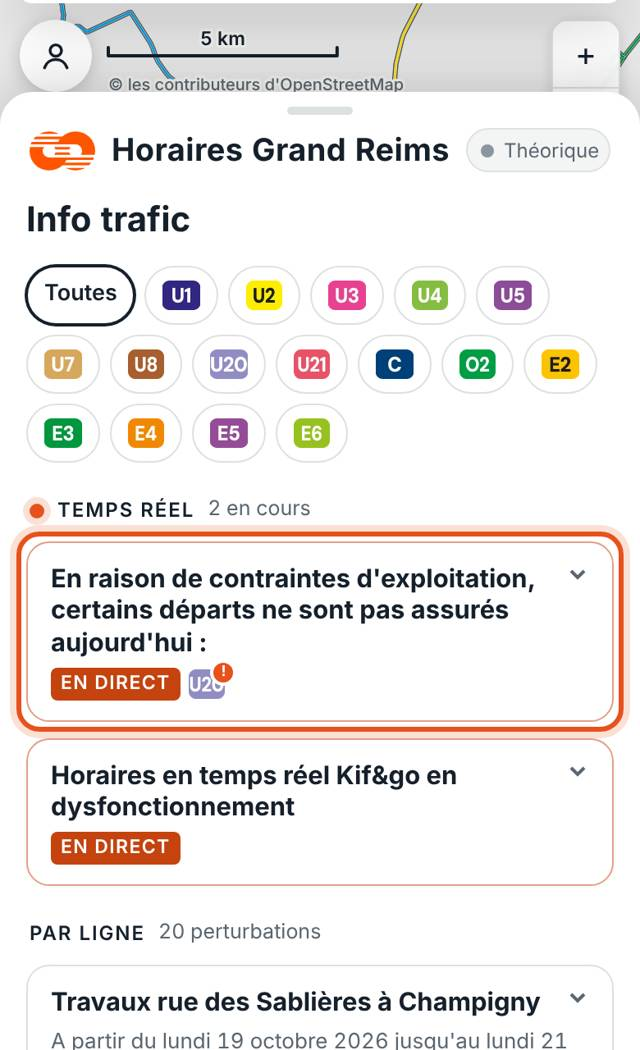
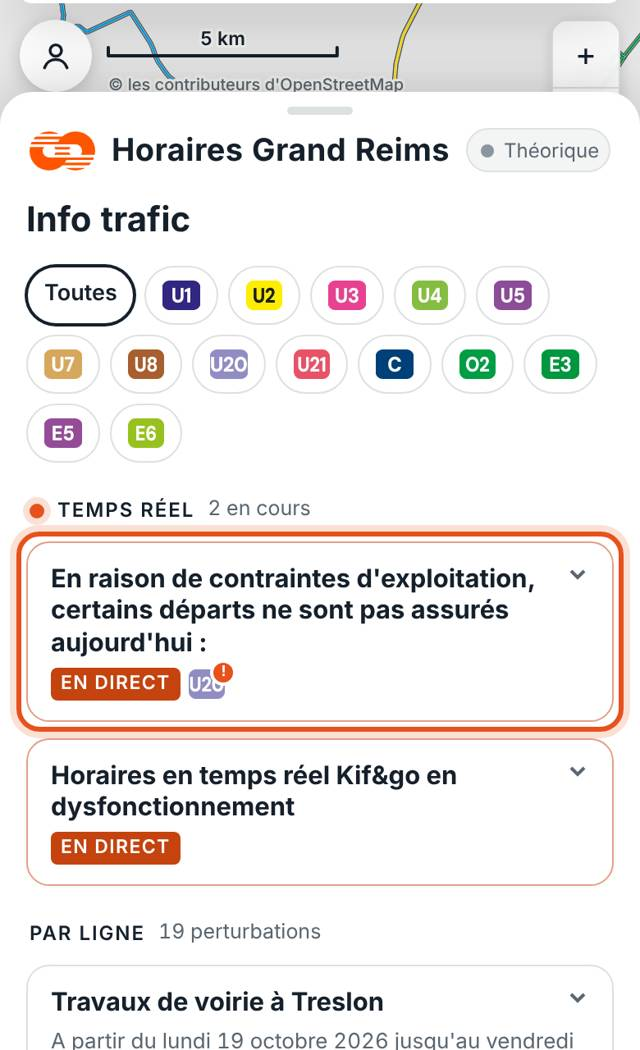
#26 barre d'état de l'iPhone (le plan commence dessous) et #27 « Je suis à bord »
Claude-Session: https://claude.ai/code/session_01CUDWTWNFLAxTati7rgsmG4

diff --git a/test/index.html b/test/index.html
@@ -100,6 +100,11 @@ h1, h2, h3 { font-family: var(--font-display); text-wrap: balance; margin: 0; }
   header.top { padding-top: 0 !important; touch-action: none; }
   .maplegend { display: none !important; }
   .mapctl, .profbtn { top: calc(var(--sat) + 12px) !important; }
+  /* #26 : appli lancée depuis l'écran d'accueil de l'iPhone : depuis iOS 26.1, la barre d'état (heure, batterie) a un fond
+     opaque qui recouvrait le haut du plan. Le plan commence donc sous elle, et ce fond prend la couleur des panneaux. */
+  html.standalone, html.standalone body { background: var(--surface); }
+  html.standalone .mapwrap { top: var(--sat); }
+  html.standalone .mapctl, html.standalone .profbtn { top: 12px !important; }
   input, select { font-size: 16px !important; } /* évite le zoom automatique d'iOS */
 }
 
@@ -1381,7 +1386,7 @@ const saveFav = () => { store.set("favStops", fav.stops); store.set("favTrips", 
 const FEATS = [
   ["Pendant le trajet", [
     ["gps", "Bus suivi en direct", "Quand vous êtes à bord, le bus avance sur l'écran avec vous, grâce au GPS de votre téléphone. Les heures d'arrivée sont plus précises."],
-    ["dedans", "Bouton « Je suis dedans »", "Un bouton pour dire à l'appli que vous êtes monté : le bus se cale sur vous en quelques secondes."],
+    ["dedans", "Bouton « Je suis à bord »", "Un bouton pour dire à l'appli que vous êtes monté : le bus se cale sur vous en quelques secondes."],
     ["retour", "Reprise instantanée", "Si vous quittez l'appli pendant le trajet, le bus se recale tout de suite sur vous à votre retour, même arrêté à un feu rouge."],
     ["plein", "Mode plein écran", "Tirez le panneau vers le haut : votre trajet occupe tout l'écran. Touchez la croix pour revenir."],
     ["centre", "Toujours centré sur le bus", "La liste des arrêts suit le bus. Si vous la faites défiler, elle revient sur lui au bout de 4 secondes."],
@@ -1898,7 +1903,7 @@ function userOnPat(pi, s) {
 function boardAdjust(st, pi, k, dk) {
   const key = [pi, k, dk].join(":");
   if (BOARD.key !== key) Object.assign(BOARD, { key, on: false, since: 0, offAt: 0, claim: BOARD.key ? 0 : BOARD.claim });
-  // « Je suis dedans » : le calage attend que le bus roule ; au-delà de 3 min de roulage sans calage, retour en silence
+  // « Je suis à bord » : le calage attend que le bus roule ; au-delà de 3 min de roulage sans calage, retour en silence
   if (BOARD.claim) {
     if (st.state === "before") BOARD.claim = Date.now();          // au terminus : on attend le départ
     else if (st.state !== "running" || Date.now() - BOARD.claim > 180000) BOARD.claim = 0;
@@ -1924,7 +1929,7 @@ function boardAdjust(st, pi, k, dk) {
     const nearWide = Math.abs(last.d - posToD(st.pos)) < Math.max(600, 2 * gap);
     // #09 : à bord il y a moins de 10 min (appli quittée puis reprise, feu rouge…) : recalage dès le premier point sur le tracé
     const recent = BOARD_LAST.key === key && (feat("retour") || (BOARD_LAST.ib && now - BOARD_LAST.at < 120000)) && now - BOARD_LAST.at < 600000 && onRoute(last) && nearWide;
-    // #09 : « Je suis dedans » touché : calage dès que j'avance avec le bus (≥ 15 m sur le tracé, dans le bon sens)
+    // #09 : « Je suis à bord » touché : calage dès que j'avance avec le bus (≥ 15 m sur le tracé, dans le bon sens)
     if (BOARD.claim && now - BOARD.claim > 180000) BOARD.claim = 0;
     const w2 = BOARD.claim ? pts.filter((h) => h.t >= BOARD.claim - 3000 && now - h.t < 30000 && onRoute(h)) : [];
     const claimed = w2.length >= 2 && w2[w2.length - 1] === last && w2[w2.length - 1].d - w2[0].d >= 15 && nearWide;
@@ -2132,7 +2137,7 @@ function renderFollow() {
   const near = st.state === "running" && !st.atStop && st.at(next) - t <= 1.1;
   const delay = Math.round(st.at(Math.min(nS - 1, next)) - st.sched(Math.min(nS - 1, next)));
   // pas de bouton quand le départ du terminus est encore loin (plus de 10 min)
-  const b9 = st.gps || st.state === "done" || (st.state === "before" && st.dp(0) - st.t > 10) || !feat("gps") || !feat("dedans") ? "" : BOARD.claim ? `<span class="b9 wait"><i class="b9spin"></i>Calage…</span>` : `<button type="button" class="b9" data-board>Je suis dedans</button>`;
+  const b9 = st.gps || st.state === "done" || (st.state === "before" && st.dp(0) - st.t > 10) || !feat("gps") || !feat("dedans") ? "" : BOARD.claim ? `<span class="b9 wait"><i class="b9spin"></i>Calage…</span>` : `<button type="button" class="b9" data-board>Je suis à bord</button>`;
   $("#mb-status").innerHTML = (st.gps ? `<i class="gpsdot"></i>À bord · position GPS${delay >= 1 ? " · retard " + delay + " min" : ""}` : `${dot(st.live)}${st.live ? `Temps réel · ${delay >= 1 ? "retard " + delay + " min" : delay <= -1 ? "avance " + -delay + " min" : "à l'heure"}` : "Horaire théorique (position estimée)"}`);
   { const h9 = b9; const e9 = $("#mb-b9"); if (e9 && e9.dataset.html !== h9) { e9.innerHTML = h9; e9.dataset.html = h9; } };
   // ligne : arrêts passés, arrêt suivant, bus
@@ -2710,7 +2715,7 @@ function installPop(os) {
 const GUIDE = [
   ["passages", "Trouver un horaire", "passages.jpg", "<p>Dans <b>Passages</b>, choisissez un arrêt : les prochains départs de chaque ligne s'affichent, rangés par transport (tram, BHNS, bus, express). Touchez un titre pour replier un transport.</p><p>Un <b>point vert</b> veut dire temps réel, un <b>point gris</b> horaire prévu. Touchez un horaire pour suivre ce bus. L'étoile ajoute l'arrêt à votre accueil.</p>"],
   ["itineraire", "Faire un itinéraire", "itineraire.jpg", "<p>Dans <b>Itinéraire</b>, indiquez d'où vous partez et où vous allez, puis « Partir à » ou « Arriver avant ». 6 trajets s'affichent ; « Plus tôt » et « Départs suivants » en ajoutent.</p><p>Ouvrez un trajet pour voir les étapes, puis « Me guider » : l'appli vous accompagne jusqu'à l'arrivée, correspondances comprises.</p>"],
-  ["monbus", "Suivre son bus", "monbus.jpg", "<p>Touchez un horaire ou un bus sur le plan : <b>Mon bus</b> montre où il est et à quelle heure il passera à chaque arrêt. Tirez le panneau vers le haut pour le plein écran.</p><p>Une fois monté, touchez <b>Je suis dedans</b> : le bus se cale sur votre position. Touchez votre arrêt de descente pour être prévenu juste avant. Si vous montez sans rien faire, l'appli vous propose elle-même de suivre votre bus.</p>"],
+  ["monbus", "Suivre son bus", "monbus.jpg", "<p>Touchez un horaire ou un bus sur le plan : <b>Mon bus</b> montre où il est et à quelle heure il passera à chaque arrêt. Tirez le panneau vers le haut pour le plein écran.</p><p>Une fois monté, touchez <b>Je suis à bord</b> : le bus se cale sur votre position. Touchez votre arrêt de descente pour être prévenu juste avant. Si vous montez sans rien faire, l'appli vous propose elle-même de suivre votre bus.</p>"],
   ["trafic", "L'info trafic", "trafic.jpg", "<p>L'onglet <b>Info trafic</b> montre d'abord ce qui se passe en ce moment, puis les travaux et arrêts déplacés, ligne par ligne. Un « ! » s'allume sur l'onglet quand une nouvelle info tombe.</p><p>Touchez une info : le plan montre les arrêts concernés et ceux de remplacement.</p>"],
   ["profil", "Votre profil", "profil.jpg", "<p>Le rond en haut à gauche du plan ouvre <b>Mon profil</b> : rangez, renommez ou supprimez vos arrêts et trajets, choisissez vos lignes (elles passent en premier) et vos alertes.</p><p>En bas, chaque fonctionnalité peut être coupée si vous préférez un affichage plus simple.</p>"],
 ];
@@ -2874,7 +2879,7 @@ const toS = (x, y) => [(x - view.cx) * view.s + W / 2, H / 2 - (y - view.cy) * v
 const fromS = (sx, sy) => [(sx - W / 2) / view.s + view.cx, view.cy - (sy - H / 2) / view.s];
 const geoS = (lon, lat) => toS(PX(lon), PY(lat));
 const reduceMotion = matchMedia("(prefers-reduced-motion: reduce)").matches;
-const topInset = () => isMobile() ? (parseFloat(css("--sat")) || 0) + 8 : 0;
+const topInset = () => isMobile() ? (document.documentElement.classList.contains("standalone") ? 0 : (parseFloat(css("--sat")) || 0)) + 8 : 0; // #26 : appli iPhone, le plan commence déjà sous la barre d'état
 
 // tracés : un par motif distinct
 const shapeOfPat = net.pats.map((p) => p.sh >= 0 ? net.shapes[p.sh] : p.stops.map((q) => [net.Q[q][2], net.Q[q][1]]));
@@ -3747,11 +3752,11 @@ const UPD_LOG = [
     { ico: personSvg(34), t: "Votre profil",
       b: "<p>Touchez le rond en haut à gauche du plan. Rangez et renommez vos arrêts et trajets (« Maison », « Boulot »), choisissez vos lignes et vos alertes.</p><p>Chaque fonctionnalité peut aussi être coupée, et le mode d'emploi est là.</p>" },
     { ico: icoSvg('<rect x="6" y="3.5" width="12" height="15" rx="2.5"/><path d="M6 12h12M8.5 21l1-2.5M15.5 21l-1-2.5"/><circle cx="9" cy="15.3" r=".6" fill="currentColor"/><circle cx="15" cy="15.3" r=".6" fill="currentColor"/>'), t: "L'appli reconnaît votre bus",
-      b: "<p>Vous montez sans rien faire ? L'appli vous propose de suivre le bus ou le tram dans lequel vous êtes.</p><p>Dans Mon bus, « Je suis dedans » cale le bus sur vous en quelques secondes, et il se recale tout seul si vous quittez l'appli.</p>" },
+      b: "<p>Vous montez sans rien faire ? L'appli vous propose de suivre le bus ou le tram dans lequel vous êtes.</p><p>Dans Mon bus, « Je suis à bord » cale le bus sur vous en quelques secondes, et il se recale tout seul si vous quittez l'appli.</p>" },
     { ico: icoSvg('<path d="M4 6h16M4 12h10M4 18h13"/><circle cx="19" cy="12" r="1.6"/>'), t: "Des arrêts et des trajets plus clairs",
       b: "<p>À chaque arrêt, les lignes sont rangées par transport : tram, BHNS, bus, express. Les correspondances indiquent leur direction.</p><p>Itinéraire : 6 trajets d'emblée, avec « Plus tôt » et « Départs suivants ».</p>" },
     { ico: icoSvg('<path d="M20 6 9 17l-5-5"/>'), t: "Et quelques corrections",
-      b: "<ul><li>Mon bus montre l'icône du tram, du BHNS ou du bus, et toute la course depuis le départ.</li><li>Les flèches de Mon bus s'arrêtent à l'arrêt suivant.</li><li>Les marchés du dimanche et les nouveaux arrêts passent dans « Infos », sans « ! ».</li><li>Sur le plan, les lignes d'une même rue restent côte à côte sans se croiser.</li></ul>" }] },
+      b: "<ul><li>Mon bus montre l'icône du tram, du BHNS ou du bus, et toute la course depuis le départ.</li><li>Les flèches de Mon bus s'arrêtent à l'arrêt suivant.</li><li>Les marchés du dimanche et les nouveaux arrêts passent dans « Infos », sans « ! ».</li><li>Sur le plan, les lignes d'une même rue restent côte à côte sans se croiser.</li><li>Sur iPhone, le haut de l'écran est mieux calé sous l'heure et la batterie.</li></ul>" }] },
   { v: "2026-11-06", t: "Info trafic, fin de service et nouveau plan", slides: UPD_0611 },
 ];
 const UPD = UPD_LOG[0].v;

diff --git a/build/template.html b/build/template.html
@@ -93,6 +93,11 @@ h1, h2, h3 { font-family: var(--font-display); text-wrap: balance; margin: 0; }
   header.top { padding-top: 0 !important; touch-action: none; }
   .maplegend { display: none !important; }
   .mapctl, .profbtn { top: calc(var(--sat) + 12px) !important; }
+  /* #26 : appli lancée depuis l'écran d'accueil de l'iPhone : depuis iOS 26.1, la barre d'état (heure, batterie) a un fond
+     opaque qui recouvrait le haut du plan. Le plan commence donc sous elle, et ce fond prend la couleur des panneaux. */
+  html.standalone, html.standalone body { background: var(--surface); }
+  html.standalone .mapwrap { top: var(--sat); }
+  html.standalone .mapctl, html.standalone .profbtn { top: 12px !important; }
   input, select { font-size: 16px !important; } /* évite le zoom automatique d'iOS */
 }
 
@@ -968,7 +973,7 @@ const saveFav = () => { store.set("favStops", fav.stops); store.set("favTrips", 
 const FEATS = [
   ["Pendant le trajet", [
     ["gps", "Bus suivi en direct", "Quand vous êtes à bord, le bus avance sur l'écran avec vous, grâce au GPS de votre téléphone. Les heures d'arrivée sont plus précises."],
-    ["dedans", "Bouton « Je suis dedans »", "Un bouton pour dire à l'appli que vous êtes monté : le bus se cale sur vous en quelques secondes."],
+    ["dedans", "Bouton « Je suis à bord »", "Un bouton pour dire à l'appli que vous êtes monté : le bus se cale sur vous en quelques secondes."],
     ["retour", "Reprise instantanée", "Si vous quittez l'appli pendant le trajet, le bus se recale tout de suite sur vous à votre retour, même arrêté à un feu rouge."],
     ["plein", "Mode plein écran", "Tirez le panneau vers le haut : votre trajet occupe tout l'écran. Touchez la croix pour revenir."],
     ["centre", "Toujours centré sur le bus", "La liste des arrêts suit le bus. Si vous la faites défiler, elle revient sur lui au bout de 4 secondes."],
@@ -1485,7 +1490,7 @@ function userOnPat(pi, s) {
 function boardAdjust(st, pi, k, dk) {
   const key = [pi, k, dk].join(":");
   if (BOARD.key !== key) Object.assign(BOARD, { key, on: false, since: 0, offAt: 0, claim: BOARD.key ? 0 : BOARD.claim });
-  // « Je suis dedans » : le calage attend que le bus roule ; au-delà de 3 min de roulage sans calage, retour en silence
+  // « Je suis à bord » : le calage attend que le bus roule ; au-delà de 3 min de roulage sans calage, retour en silence
   if (BOARD.claim) {
     if (st.state === "before") BOARD.claim = Date.now();          // au terminus : on attend le départ
     else if (st.state !== "running" || Date.now() - BOARD.claim > 180000) BOARD.claim = 0;
@@ -1511,7 +1516,7 @@ function boardAdjust(st, pi, k, dk) {
     const nearWide = Math.abs(last.d - posToD(st.pos)) < Math.max(600, 2 * gap);
     // #09 : à bord il y a moins de 10 min (appli quittée puis reprise, feu rouge…) : recalage dès le premier point sur le tracé
     const recent = BOARD_LAST.key === key && (feat("retour") || (BOARD_LAST.ib && now - BOARD_LAST.at < 120000)) && now - BOARD_LAST.at < 600000 && onRoute(last) && nearWide;
-    // #09 : « Je suis dedans » touché : calage dès que j'avance avec le bus (≥ 15 m sur le tracé, dans le bon sens)
+    // #09 : « Je suis à bord » touché : calage dès que j'avance avec le bus (≥ 15 m sur le tracé, dans le bon sens)
     if (BOARD.claim && now - BOARD.claim > 180000) BOARD.claim = 0;
     const w2 = BOARD.claim ? pts.filter((h) => h.t >= BOARD.claim - 3000 && now - h.t < 30000 && onRoute(h)) : [];
     const claimed = w2.length >= 2 && w2[w2.length - 1] === last && w2[w2.length - 1].d - w2[0].d >= 15 && nearWide;
@@ -1719,7 +1724,7 @@ function renderFollow() {
   const near = st.state === "running" && !st.atStop && st.at(next) - t <= 1.1;
   const delay = Math.round(st.at(Math.min(nS - 1, next)) - st.sched(Math.min(nS - 1, next)));
   // pas de bouton quand le départ du terminus est encore loin (plus de 10 min)
-  const b9 = st.gps || st.state === "done" || (st.state === "before" && st.dp(0) - st.t > 10) || !feat("gps") || !feat("dedans") ? "" : BOARD.claim ? `<span class="b9 wait"><i class="b9spin"></i>Calage…</span>` : `<button type="button" class="b9" data-board>Je suis dedans</button>`;
+  const b9 = st.gps || st.state === "done" || (st.state === "before" && st.dp(0) - st.t > 10) || !feat("gps") || !feat("dedans") ? "" : BOARD.claim ? `<span class="b9 wait"><i class="b9spin"></i>Calage…</span>` : `<button type="button" class="b9" data-board>Je suis à bord</button>`;
   $("#mb-status").innerHTML = (st.gps ? `<i class="gpsdot"></i>À bord · position GPS${delay >= 1 ? " · retard " + delay + " min" : ""}` : `${dot(st.live)}${st.live ? `Temps réel · ${delay >= 1 ? "retard " + delay + " min" : delay <= -1 ? "avance " + -delay + " min" : "à l'heure"}` : "Horaire théorique (position estimée)"}`);
   { const h9 = b9; const e9 = $("#mb-b9"); if (e9 && e9.dataset.html !== h9) { e9.innerHTML = h9; e9.dataset.html = h9; } };
   // ligne : arrêts passés, arrêt suivant, bus
@@ -2297,7 +2302,7 @@ function installPop(os) {
 const GUIDE = [
   ["passages", "Trouver un horaire", "passages.jpg", "<p>Dans <b>Passages</b>, choisissez un arrêt : les prochains départs de chaque ligne s'affichent, rangés par transport (tram, BHNS, bus, express). Touchez un titre pour replier un transport.</p><p>Un <b>point vert</b> veut dire temps réel, un <b>point gris</b> horaire prévu. Touchez un horaire pour suivre ce bus. L'étoile ajoute l'arrêt à votre accueil.</p>"],
   ["itineraire", "Faire un itinéraire", "itineraire.jpg", "<p>Dans <b>Itinéraire</b>, indiquez d'où vous partez et où vous allez, puis « Partir à » ou « Arriver avant ». 6 trajets s'affichent ; « Plus tôt » et « Départs suivants » en ajoutent.</p><p>Ouvrez un trajet pour voir les étapes, puis « Me guider » : l'appli vous accompagne jusqu'à l'arrivée, correspondances comprises.</p>"],
-  ["monbus", "Suivre son bus", "monbus.jpg", "<p>Touchez un horaire ou un bus sur le plan : <b>Mon bus</b> montre où il est et à quelle heure il passera à chaque arrêt. Tirez le panneau vers le haut pour le plein écran.</p><p>Une fois monté, touchez <b>Je suis dedans</b> : le bus se cale sur votre position. Touchez votre arrêt de descente pour être prévenu juste avant. Si vous montez sans rien faire, l'appli vous propose elle-même de suivre votre bus.</p>"],
+  ["monbus", "Suivre son bus", "monbus.jpg", "<p>Touchez un horaire ou un bus sur le plan : <b>Mon bus</b> montre où il est et à quelle heure il passera à chaque arrêt. Tirez le panneau vers le haut pour le plein écran.</p><p>Une fois monté, touchez <b>Je suis à bord</b> : le bus se cale sur votre position. Touchez votre arrêt de descente pour être prévenu juste avant. Si vous montez sans rien faire, l'appli vous propose elle-même de suivre votre bus.</p>"],
   ["trafic", "L'info trafic", "trafic.jpg", "<p>L'onglet <b>Info trafic</b> montre d'abord ce qui se passe en ce moment, puis les travaux et arrêts déplacés, ligne par ligne. Un « ! » s'allume sur l'onglet quand une nouvelle info tombe.</p><p>Touchez une info : le plan montre les arrêts concernés et ceux de remplacement.</p>"],
   ["profil", "Votre profil", "profil.jpg", "<p>Le rond en haut à gauche du plan ouvre <b>Mon profil</b> : rangez, renommez ou supprimez vos arrêts et trajets, choisissez vos lignes (elles passent en premier) et vos alertes.</p><p>En bas, chaque fonctionnalité peut être coupée si vous préférez un affichage plus simple.</p>"],
 ];
@@ -2536,11 +2541,11 @@ const UPD_LOG = [
     { ico: personSvg(34), t: "Votre profil",
       b: "<p>Touchez le rond en haut à gauche du plan. Rangez et renommez vos arrêts et trajets (« Maison », « Boulot »), choisissez vos lignes et vos alertes.</p><p>Chaque fonctionnalité peut aussi être coupée, et le mode d'emploi est là.</p>" },
     { ico: icoSvg('<rect x="6" y="3.5" width="12" height="15" rx="2.5"/><path d="M6 12h12M8.5 21l1-2.5M15.5 21l-1-2.5"/><circle cx="9" cy="15.3" r=".6" fill="currentColor"/><circle cx="15" cy="15.3" r=".6" fill="currentColor"/>'), t: "L'appli reconnaît votre bus",
-      b: "<p>Vous montez sans rien faire ? L'appli vous propose de suivre le bus ou le tram dans lequel vous êtes.</p><p>Dans Mon bus, « Je suis dedans » cale le bus sur vous en quelques secondes, et il se recale tout seul si vous quittez l'appli.</p>" },
+      b: "<p>Vous montez sans rien faire ? L'appli vous propose de suivre le bus ou le tram dans lequel vous êtes.</p><p>Dans Mon bus, « Je suis à bord » cale le bus sur vous en quelques secondes, et il se recale tout seul si vous quittez l'appli.</p>" },
     { ico: icoSvg('<path d="M4 6h16M4 12h10M4 18h13"/><circle cx="19" cy="12" r="1.6"/>'), t: "Des arrêts et des trajets plus clairs",
       b: "<p>À chaque arrêt, les lignes sont rangées par transport : tram, BHNS, bus, express. Les correspondances indiquent leur direction.</p><p>Itinéraire : 6 trajets d'emblée, avec « Plus tôt » et « Départs suivants ».</p>" },
     { ico: icoSvg('<path d="M20 6 9 17l-5-5"/>'), t: "Et quelques corrections",
-      b: "<ul><li>Mon bus montre l'icône du tram, du BHNS ou du bus, et toute la course depuis le départ.</li><li>Les flèches de Mon bus s'arrêtent à l'arrêt suivant.</li><li>Les marchés du dimanche et les nouveaux arrêts passent dans « Infos », sans « ! ».</li><li>Sur le plan, les lignes d'une même rue restent côte à côte sans se croiser.</li></ul>" }] },
+      b: "<ul><li>Mon bus montre l'icône du tram, du BHNS ou du bus, et toute la course depuis le départ.</li><li>Les flèches de Mon bus s'arrêtent à l'arrêt suivant.</li><li>Les marchés du dimanche et les nouveaux arrêts passent dans « Infos », sans « ! ».</li><li>Sur le plan, les lignes d'une même rue restent côte à côte sans se croiser.</li><li>Sur iPhone, le haut de l'écran est mieux calé sous l'heure et la batterie.</li></ul>" }] },
   { v: "2026-11-06", t: "Info trafic, fin de service et nouveau plan", slides: UPD_0611 },
 ];
 const UPD = UPD_LOG[0].v;

diff --git a/build/map.js b/build/map.js
@@ -13,7 +13,7 @@ const toS = (x, y) => [(x - view.cx) * view.s + W / 2, H / 2 - (y - view.cy) * v
 const fromS = (sx, sy) => [(sx - W / 2) / view.s + view.cx, view.cy - (sy - H / 2) / view.s];
 const geoS = (lon, lat) => toS(PX(lon), PY(lat));
 const reduceMotion = matchMedia("(prefers-reduced-motion: reduce)").matches;
-const topInset = () => isMobile() ? (parseFloat(css("--sat")) || 0) + 8 : 0;
+const topInset = () => isMobile() ? (document.documentElement.classList.contains("standalone") ? 0 : (parseFloat(css("--sat")) || 0)) + 8 : 0; // #26 : appli iPhone, le plan commence déjà sous la barre d'état
 
 // tracés : un par motif distinct
 const shapeOfPat = net.pats.map((p) => p.sh >= 0 ? net.shapes[p.sh] : p.stops.map((q) => [net.Q[q][2], net.Q[q][1]]));
